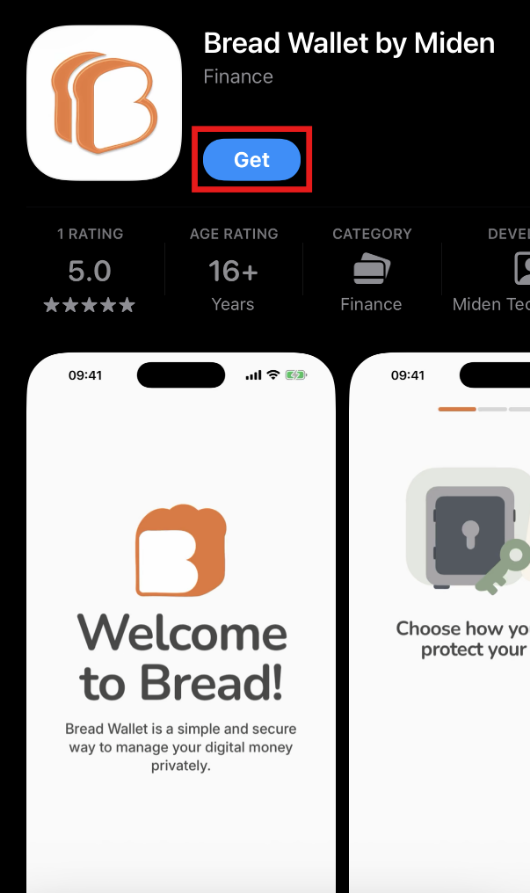
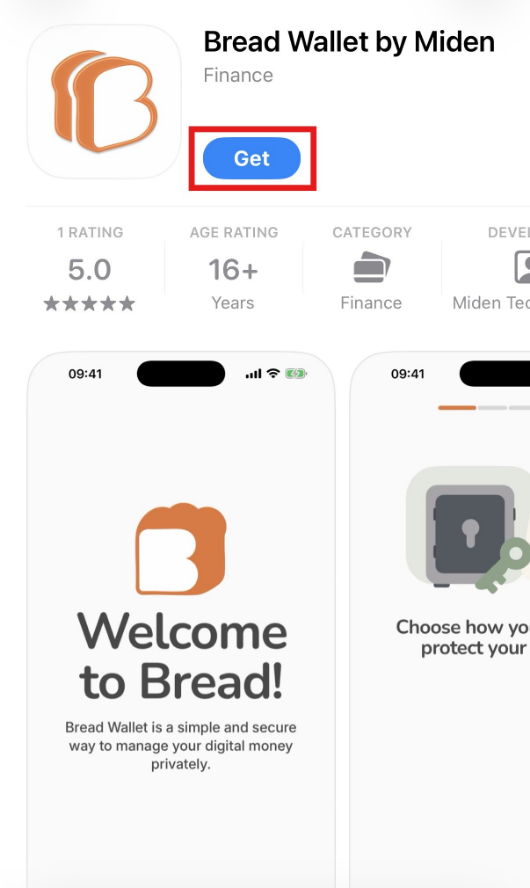
content: App Store capture retaken in light mode
Ivan's get2.jpg (2026-09-24), with his box on Get, scaled to 530 x 888.

diff --git a/src/help-center/content.ts b/src/help-center/content.ts
@@ -159,7 +159,7 @@ export type ScreenshotSize = readonly [number, number] | readonly [number, numbe
 
 export const SCREENSHOT_SIZES: Readonly<Record<string, ScreenshotSize>> = {
   // Phone captures, prepared to the phone capture spec (530px wide).
-  'M01-install-app-store.png': [530, 893, 'narrow'],
+  'M01-install-app-store.png': [530, 888, 'narrow'],
   'E01-install-web-store.png': [1783, 363],
   'E01a-install-add-extension.png': [870, 486, 'narrow'],
   'E02-install-pin.png': [870, 487, 'narrow'],

diff --git a/tasks/screenshot-capture-sheet.md b/tasks/screenshot-capture-sheet.md
@@ -364,7 +364,7 @@ captures (E19 onward) on the **Extension** tab.
 - **Save as:** `M01-install-app-store.png`
 - **Capture as:** phone, see *Phone capture spec* above
 - **Then register:** `'M01-install-app-store.png': [width, height],` in `SCREENSHOT_SIZES`, `src/help-center/content.ts`
-- **Done (2026-09-24):** Ivan's App Store capture with his box on **Get**, scaled to 530 × 893. iOS only by his
+- **Done (2026-09-24):** Ivan's App Store capture in light mode with his box on **Get** (get2.jpg), scaled to 530 × 888. iOS only by his
   call: a side-by-side iOS + Android image was previewed and was too small to read on a phone.
 
 ### B. Create a wallet
